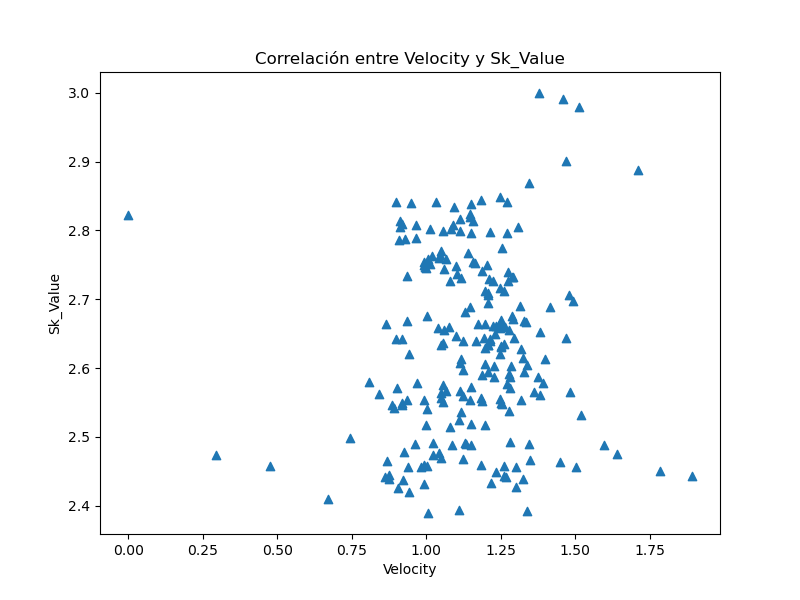
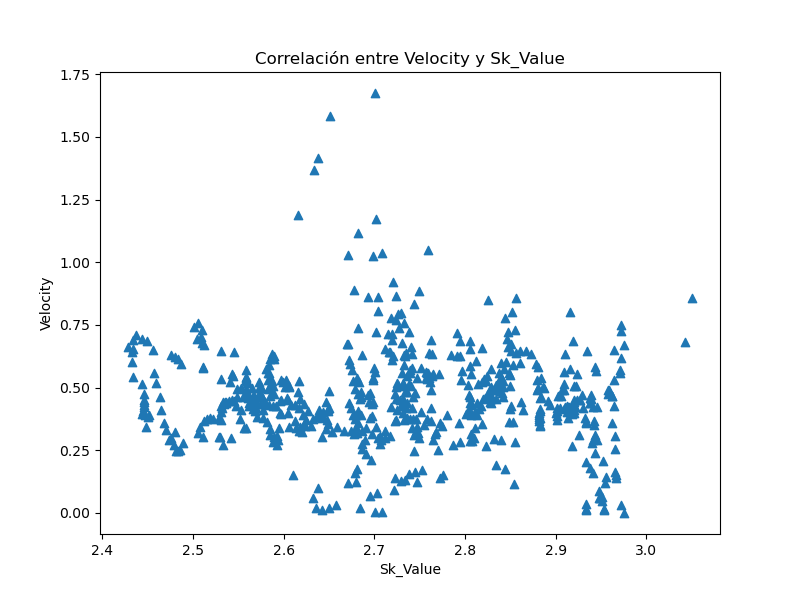
Image.open changes

diff --git a/src/velocity_module.py b/src/velocity_module.py
@@ -139,16 +139,16 @@ def show_sk_vel_graph(df, id_person, flag):
 
     df = df[df["PersID"] == id_person]
     fig, ax = plt.subplots(figsize=(8, 6))
-    ax.scatter(df["Velocity"], df["Sk_Value"], marker='^')
-    ax.set_xlabel("Velocity")
-    ax.set_ylabel("Sk_Value")
-    ax.set_title("Correlación entre Velocity y Sk_Value")
+    ax.scatter(df["Sk_Value"], df["Velocity"], marker='^')
+    ax.set_xlabel("Sk_Value")
+    ax.set_ylabel("Velocity")
+    ax.set_title("Correlación entre Sk_Value y Velocity")
     plt.savefig("../images/"+"sk_vel_graph.png")
     plt.show()
     if (flag == 1):
         st.pyplot(fig)
 
-
+ 
 def get_most_repited(df):
     ids = df['PersID']
 
@@ -186,8 +186,8 @@ def main():
     fileName7 = files[7]
     fileName8 = files[8]
     fileName9 = files[9]
-    # df = read_modified_file(fileName1)
-    df=pd.read_csv('https://raw.githubusercontent.com/Javiera31/PC-Laboratorio/main/src/results/UNI_CORR_500_01_modified.txt',sep='\t')
+    df = read_modified_file(fileName5)
+
     id_person = get_most_repited(df)
     show_sk_vel_graph(df, id_person, 0)  # si es 0, no mostrar la
     # algo con continue?
@@ -202,9 +202,9 @@ with st.container():
         'Esta aplicación es para observar el comportamiento de peatones en el pasillo de un metro')
     left_column, right_column = st.columns(2)
     with left_column:
-        st.markdown(f'<h4 style="text-align: left; font-size: 24px;"><a href="https://github.com/slderlv/PC-Laboratorio" target="_blank" style="text-decoration: none; color: inherit;"><u>Visita el repositorio en GitHub</u></a></h4>', unsafe_allow_html=True)
+        st.markdown(f'<h4 style="text-align: left; font-size: 24px;"><a href="https://github.com/Javiera31/PC-Laboratorio/blob/main/images/sk_vel_graph.png" target="_blank" style="text-decoration: none; color: inherit;"><u>Visita el repositorio en GitHub</u></a></h4>', unsafe_allow_html=True)
     with right_column:
-        st.image('../images/github-mark-white.png', width=35)
+        st.image(Image.open('../images/github-mark-white.png'), width=35)
 
 st.write("---")
 
@@ -216,7 +216,7 @@ with st.container():
     incluyendo su ID, el frame del video en el que aparecen y sus coordenadas (x, y, z) en un espacio tridimensional. Los datos procesados
     permitieron la obtención de datos como la velocidad peatonal y el promedio de las distancias entre peatones dado un radio''')
     st.write("")
-    st.image('../images/histogram_velocity_comparisson.png',
+    st.image(Image.open('../images/histogram_velocity_comparisson.png'),
              caption='Fig 1. Histograma a partir de datos de archivo UNI_CORR_500_01 y UNI_CORR_500_05')
     st.write("")
     st.write('''A partir de los histogramas se puede observar patrones de velocidad distintos para los diferentes archivos seleccionados.
@@ -235,7 +235,7 @@ with st.container():
     st.write('''Para la comparación de velocidades entre diferentes peatones se creó un boxplot utilizando los datos del archivo UNI_CORR_500_01
     ''')
     st.write("")
-    st.image('../images/velocity_boxplot.png',
+    st.image(Image.open('../images/velocity_boxplot.png'),
              caption='Fig 2. Diagrama de caja y bigote a partir de datos de archivo UNI_CORR_500_01')
     st.write("")
     st.write('''En cuanto a los diagramas de caja generados, se observa que en el archivo UNI_CORR_500_01, la mediana de velocidad para
@@ -249,8 +249,8 @@ with st.container():
     st.write('''En el estudio de peatones se calculó la constante de la ecuación de Weidmann (Sk) para obtener la velocidad de cada peatón
     en el archivo UNI_CORR_500_05 en función de los transeúntes dentro de un radio''')
     st.write("")
-    # div = st.slider('ID peatón:', 1, 905, 710)
-    div = st.slider('ID peatón:', 1, 108, 105)
+    div = st.slider('ID peatón:', 1, 905, 710)
+    # div = st.slider('ID peatón:', 1, 108, 105)
     show_sk(div, 1)
     st.write("")
     st.write('''Con el Scatter se puede concluir que a mayor cantidad de transeúntes cercanos al analizado, menor es la velocidad predicha, y
